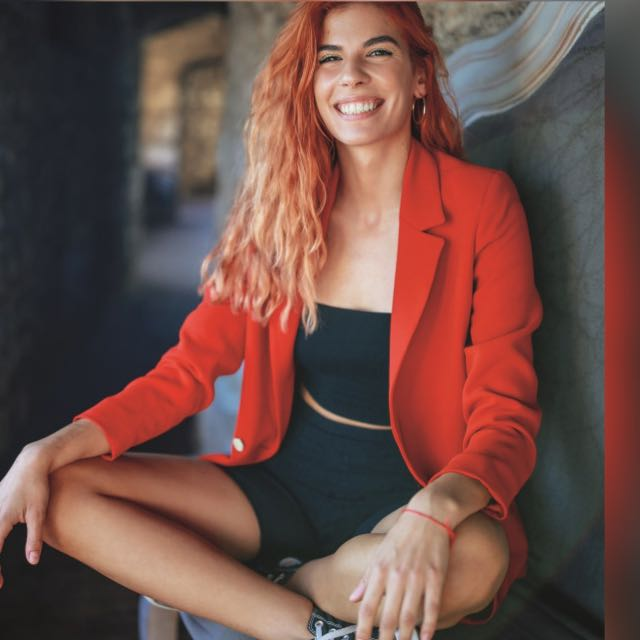
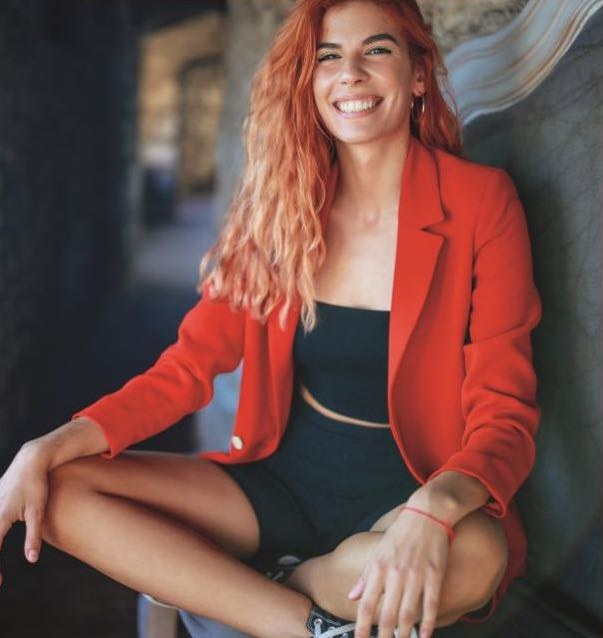
about img gloria

diff --git a/resources/css/style.css b/resources/css/style.css
@@ -63,7 +63,8 @@
 }
 
 .about-image{
-    background: url("/Gala/resources/images/gala_mugshot_web.jpg") no-repeat center/cover;
+    /* background: url("/Gala/resources/images/gala_mugshot_web.jpg") no-repeat center/cover; */
+    background: url("/Gala/resources/images/Gala_gloria_fus.jpg") no-repeat center/cover;
 }
 
 
